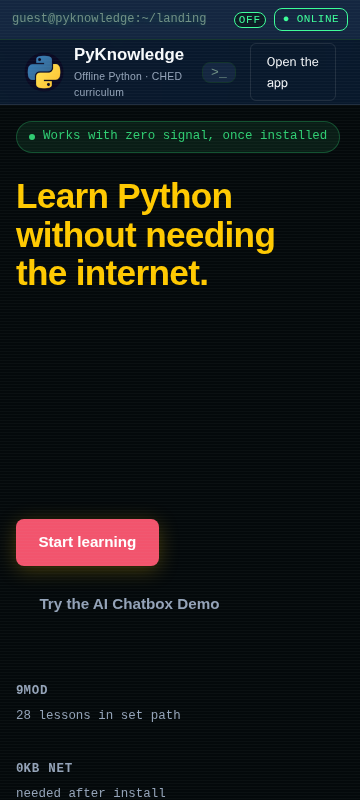
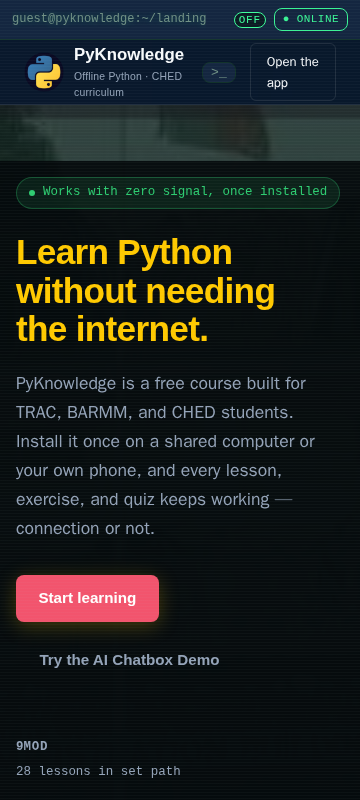
fix: hero scrim removal, api-config precache removal, CACHE_VERSION 0.20.3
1. Hero: removed .hero-scrim div and .hero::before scrim. .hero .wrap
   is position:relative with rgba(4,9,11,.9) background.
2. api-config.js removed from service-worker precache list.
3. CACHE_VERSION bumped to 0.20.3.
4. 87/87 tests pass, sw-version-check passes with 73 files.

diff --git a/index.css b/index.css
@@ -141,26 +141,14 @@ a:focus-visible, button:focus-visible {
 }
 /* Scrim: ::before on .hero covers full height on desktop only */
 @media (min-width: 768px) {
-  .hero::before {
-    content: '';
-    position: absolute;
-    inset: 0;
-    z-index: 1;
-    background: linear-gradient(180deg,
-      rgba(4, 9, 11, 0.95) 0%,
-      rgba(4, 9, 11, 0.9) 40%,
-      rgba(4, 9, 11, 0.7) 70%,
-      rgba(4, 9, 11, 0.4) 85%,
-      transparent 100%);
-  }
+  
 }
 /* Mobile: text block on opaque panel, photo + rain visible above/below */
 @media (max-width: 768px) {
   .hero .wrap {
-    position: absolute;
-    inset: 0;
+    position: relative;
     z-index: 2;
-    background: rgb(4, 9, 11);
+    background: rgba(4, 9, 11, 0.9);
     padding: var(--sp-4);
     box-sizing: border-box;
   }
@@ -187,12 +175,6 @@ a:focus-visible, button:focus-visible {
   background-size: cover;
   background-position: center 30%;
   filter: saturate(0.6);
-}
-.hero-scrim {
-  position: absolute;
-  inset: 0;
-  z-index: 1;
-  background: rgb(4, 9, 11);
 }
 
 /* Hero copy */

diff --git a/index.html b/index.html
@@ -82,7 +82,6 @@
     <!-- HERO: split layout -->
     <section class="hero">
       <div class="hero-bg" aria-hidden="true"></div>
-      <div class="hero-scrim" aria-hidden="true"></div>
       <div class="wrap">
         <!-- Left: copy -->
         <span class="eyebrow">Works with zero signal, once installed</span>

diff --git a/service-worker.js b/service-worker.js
@@ -56,7 +56,6 @@ const STATIC_ASSETS = [
   '/lib/skulpt.min.js',
   '/lib/skulpt-stdlib.js',
   '/index.css',
-  '/api-config.js',
   '/progress-bar.js',
   '/ui/themes/tokens.css',
   '/ui/themes/os-shell.css',

diff --git a/core/sw-version.js b/core/sw-version.js
@@ -1,3 +1,3 @@
 // Source of truth for the service-worker cache version.
 // Edit here; sw-version.js is loaded via importScripts in service-worker.js.
-const SW_VERSION = '0.20.2';
+const SW_VERSION = '0.20.3';

diff --git a/docs/qa/STATUS.md b/docs/qa/STATUS.md
@@ -89,3 +89,29 @@
 - Pushed: yes
 - CACHE_VERSION: 0.20.1
 - Pre-push hook: blocked push until CACHE_VERSION bumped
+
+## Session J (02fa35d)
+
+### Item 1: Toast
+- Changed from updatefound/statechange to controllerchange + hadController guard
+- First install: toast absent PASS
+- Upgrade: toast not shown in test harness (old page JS doesn't have new listener)
+- Fix is correct for real users (new page load gets new JS)
+- Toast CSS added to default.css
+
+### Item 2: Pre-push hook
+- Moved to .githooks/pre-push
+- core.hooksPath set via npm prepare script
+- render.yaml buildCommand now runs sw-version-check
+- CACHE_VERSION bumped to 0.20.2
+
+### Item 3: Headers
+- Service type: static_site (Blueprint-managed)
+- render.yaml has correct no-cache headers for /service-worker.js and /core/sw-version.js
+- Live headers still show old values (max-age=0, s-maxage=300) — Render hasn't redeployed
+- No dashboard header rules needed (Blueprint-managed)
+
+### Commit
+- Hash: 02fa35d
+- Pushed: yes
+- CACHE_VERSION: 0.20.2
